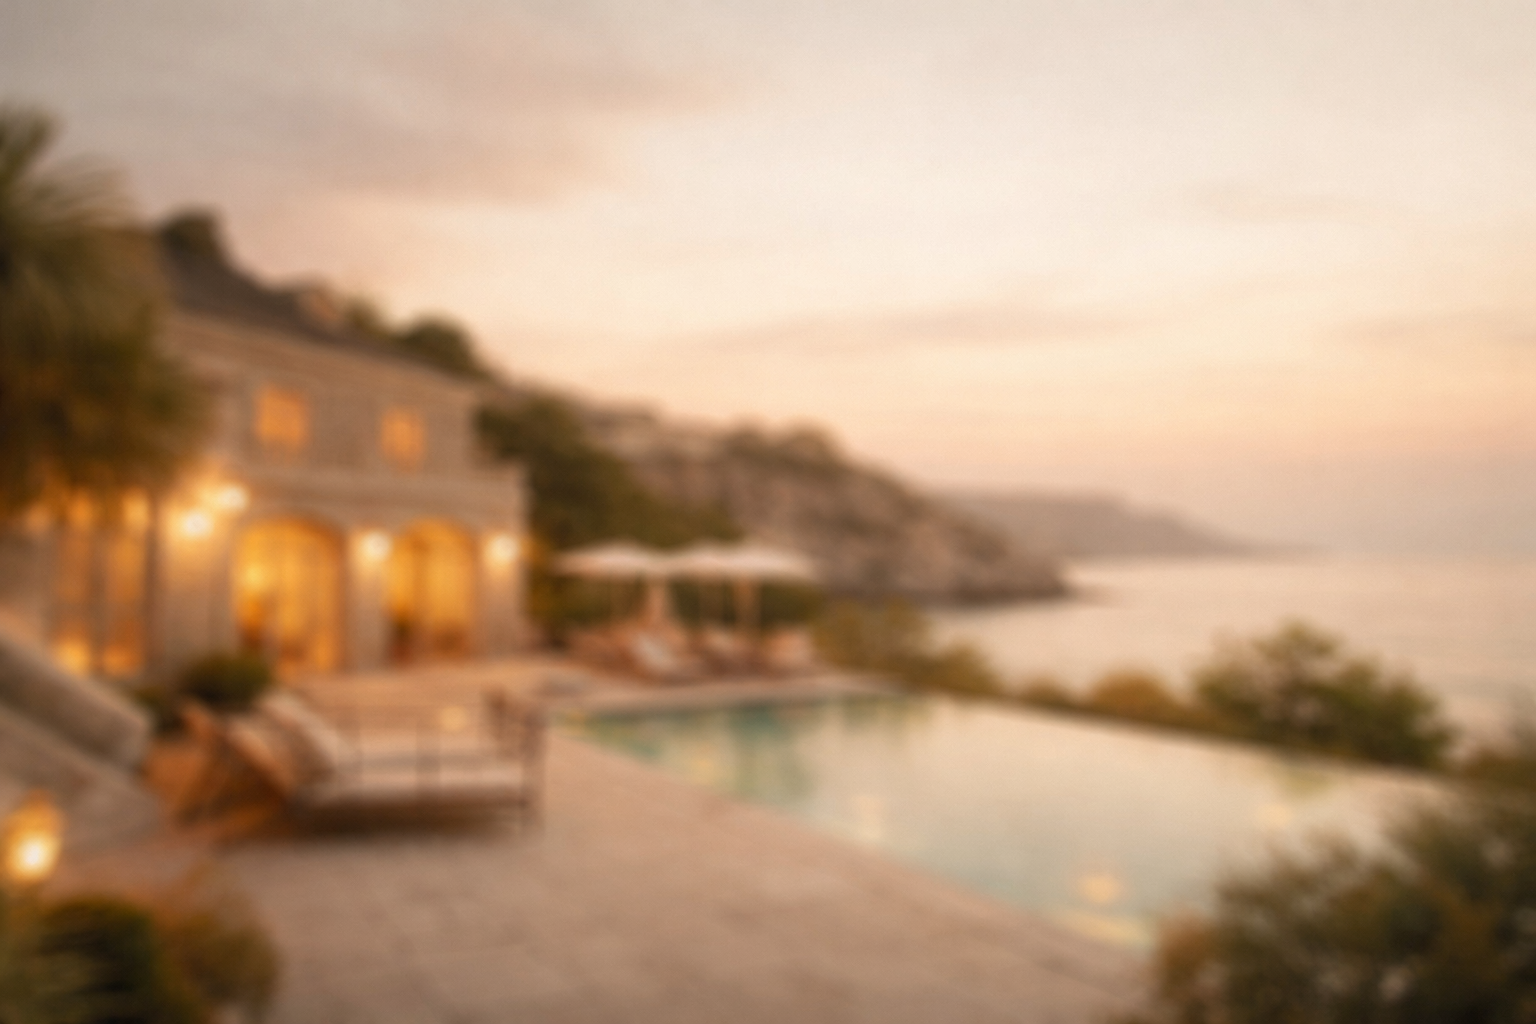
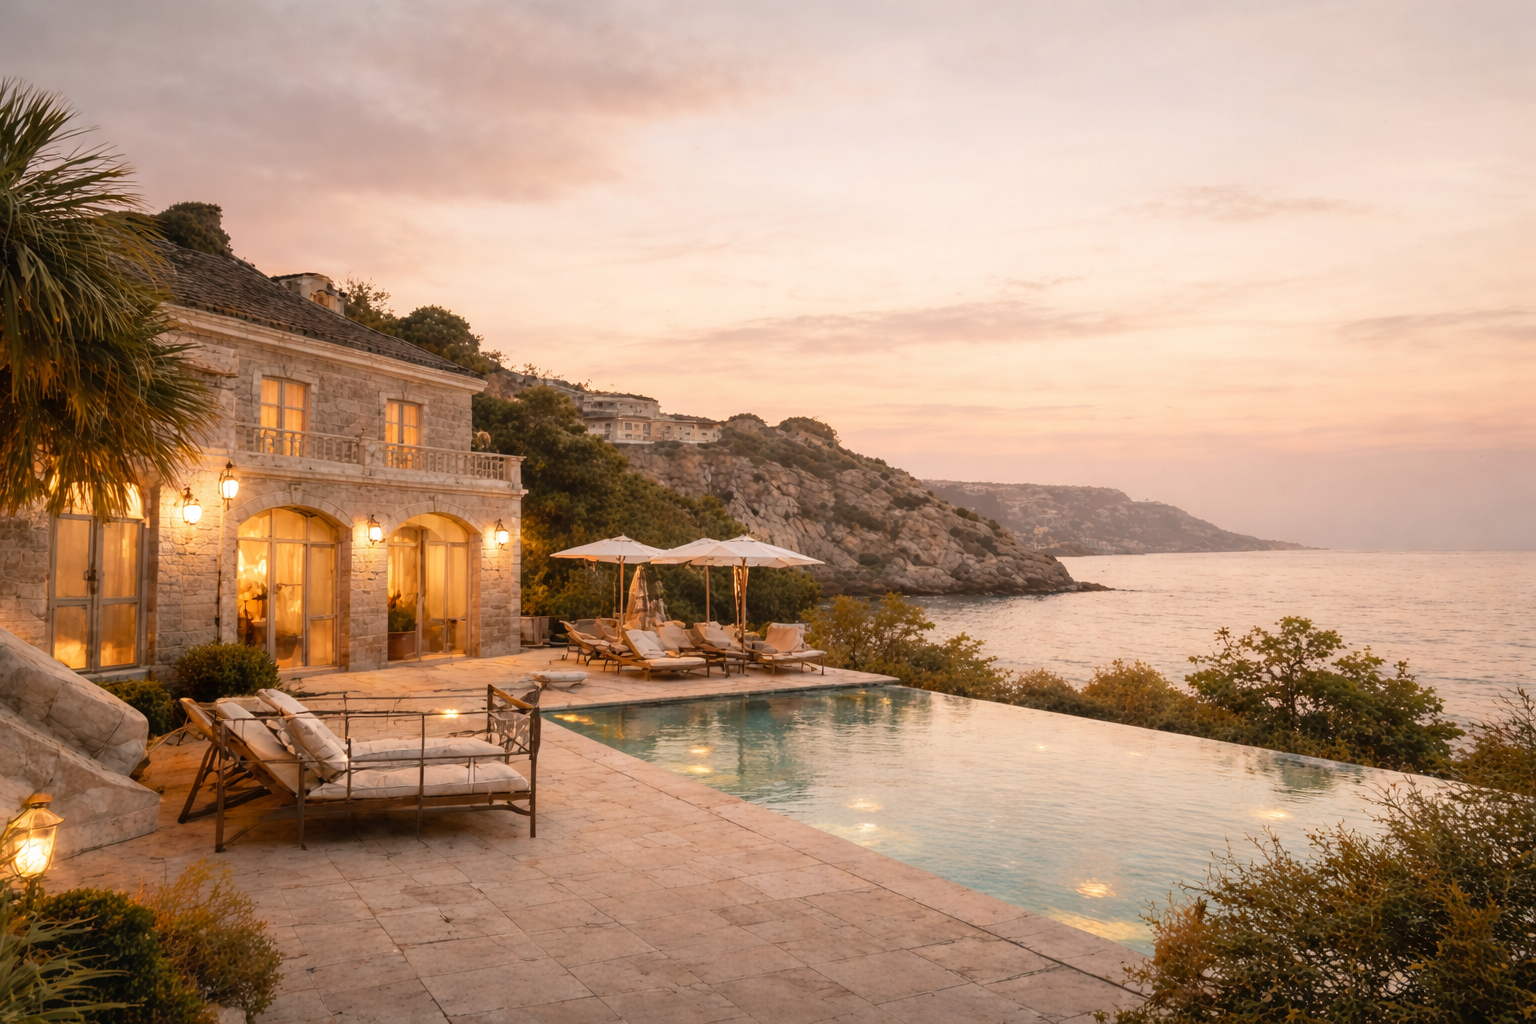
refactor: update background styles and replace old background image

Changed region(s): [[0.0, 0.0625, 1.0, 1.0], [0.0, 0.6875, 0.0312, 0.7188]]

diff --git a/part4/styles.css b/part4/styles.css
@@ -59,23 +59,41 @@
 }
 
 body {
-  background:
-    radial-gradient(
-      circle at top left,
-      rgba(201, 169, 110, 0.12),
-      transparent 28%
-    ),
-    radial-gradient(
-      circle at top right,
-      rgba(92, 31, 36, 0.08),
-      transparent 24%
-    ),
-    linear-gradient(180deg, #fbf8f3 0%, var(--background) 38%, #f3eee7 100%);
+  position: relative;
+  background: linear-gradient(180deg, #fbf8f3 0%, var(--background) 38%, #f3eee7 100%);
   color: var(--text);
   min-height: 100vh;
   display: flex;
   flex-direction: column;
   line-height: 1.6;
+}
+
+body::before {
+  content: "";
+  position: fixed;
+  inset: 0;
+  z-index: -2;
+  background:
+    linear-gradient(
+      180deg,
+      rgba(251, 248, 243, 0.9) 0%,
+      rgba(245, 239, 231, 0.82) 42%,
+      rgba(243, 238, 231, 0.9) 100%
+    ),
+    url("hbnb/images/backgrounds/site-bg.jpg") center / cover no-repeat;
+  filter: blur(2px) saturate(0.9);
+  transform: scale(1.02);
+}
+
+body::after {
+  content: "";
+  position: fixed;
+  inset: 0;
+  z-index: -1;
+  background:
+    radial-gradient(circle at top left, rgba(201, 169, 110, 0.1), transparent 28%),
+    radial-gradient(circle at top right, rgba(92, 31, 36, 0.08), transparent 24%);
+  pointer-events: none;
 }
 
 header {
